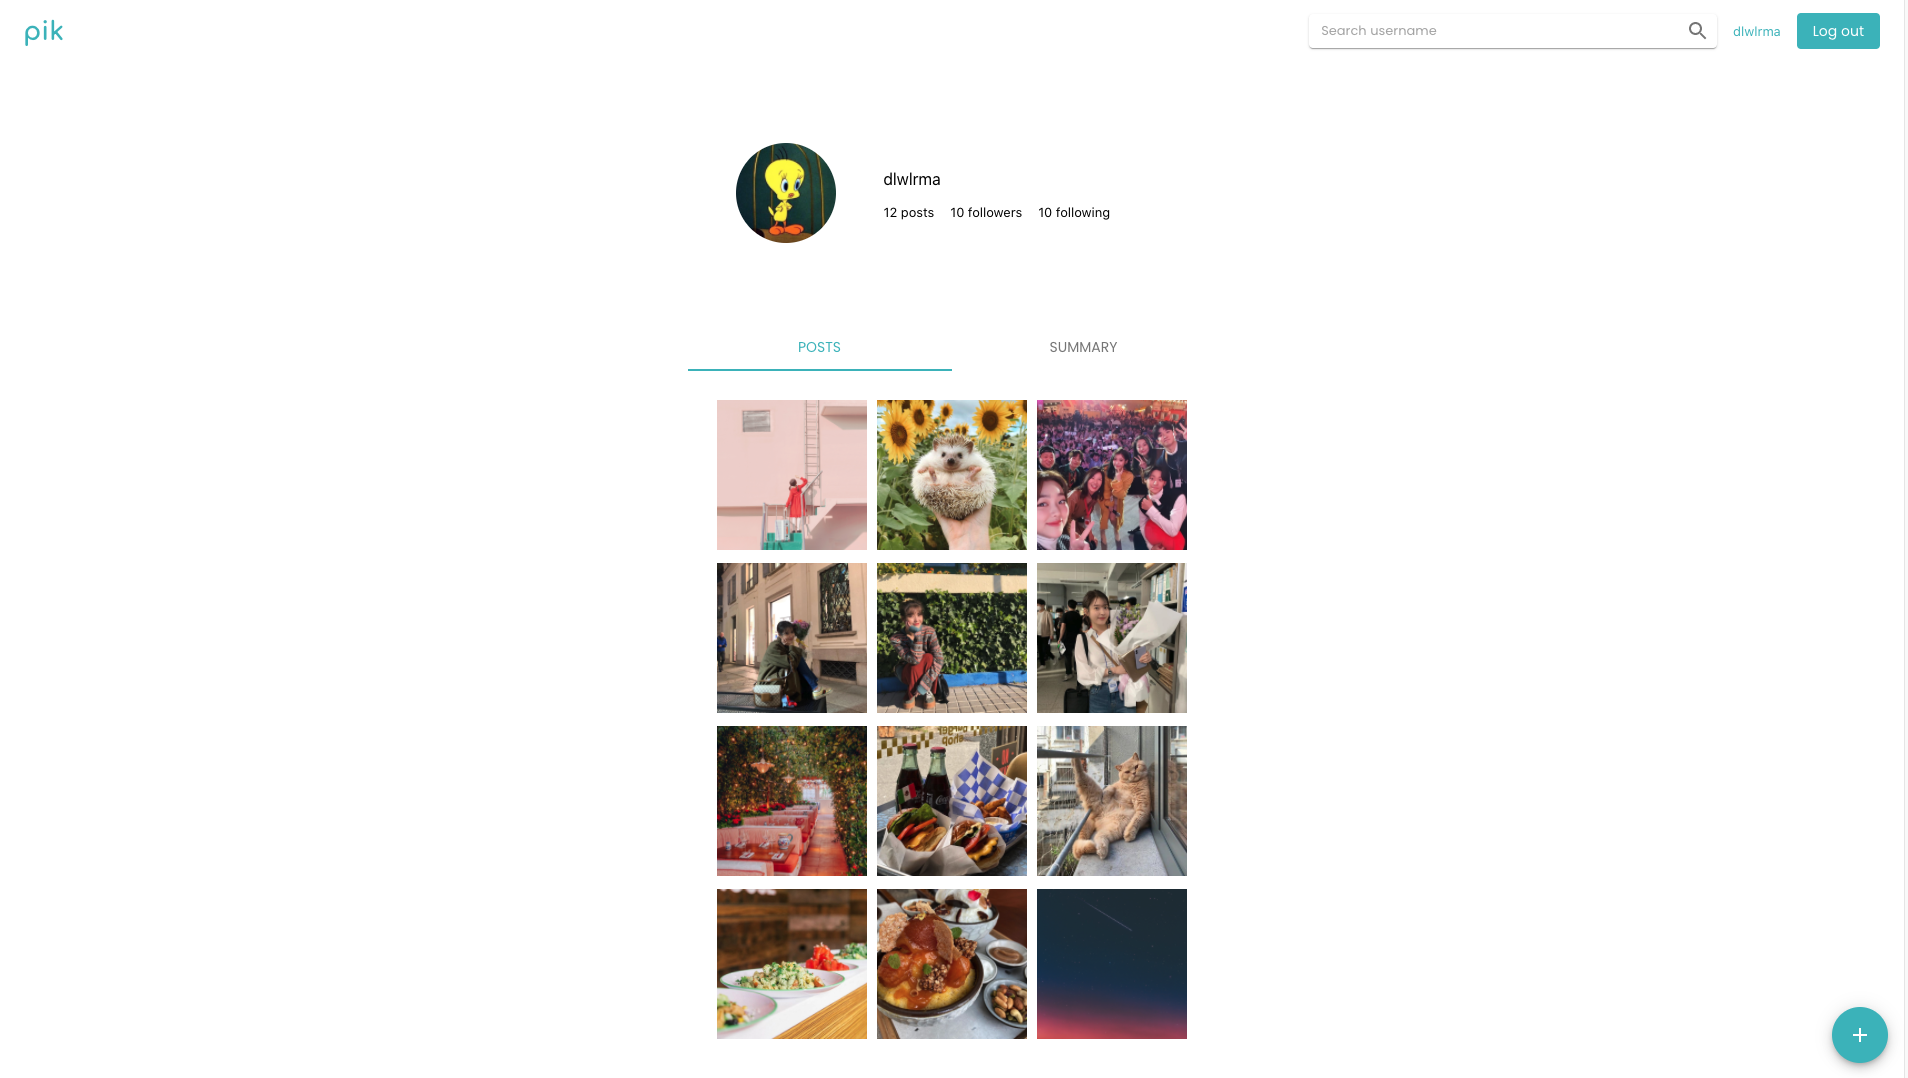
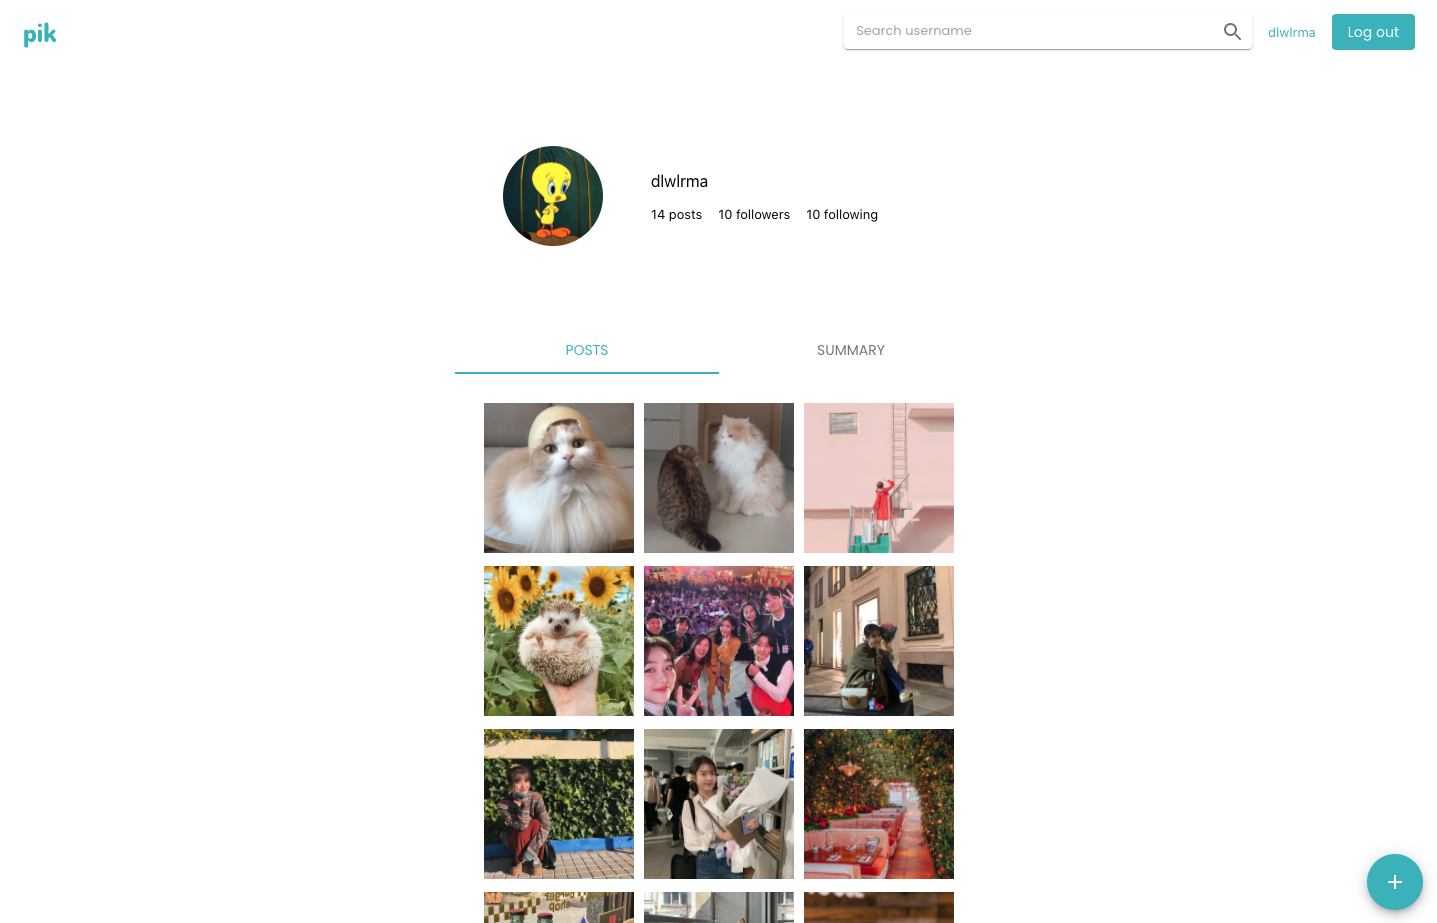
misc updates & create footer

diff --git a/client/src/pages/Profile.js b/client/src/pages/Profile.js
@@ -26,7 +26,8 @@ const Profile = ({
             try {
                 await getProfile(username)
                 const result = await Promise.all(profile.images.map(({ id }) => axios.get(`/image/${id}`)))
-                setPosts(result.map(({ data }) => data.image))
+                if (user?.username === username) setPosts(result.map(({ data }) => data.image))
+                else setPosts(result.map(({ data }) => data.image).filter(image => !image.private))
             } catch (err) {
                 // do nothing
             }
@@ -61,7 +62,6 @@ const Profile = ({
     const ProfilePage = () => {
         const {
             imageUrl, givenName, username = givenName?.toLowerCase(),
-            followers = 10, following = 10,
         } = profile
         return (
             <>
@@ -76,9 +76,7 @@ const Profile = ({
                     <div className={classes.details}>
                         <p>{username}</p>
                         <p style={{ fontSize: 'small' }}>
-                            <span>{`${posts.length} posts`}</span>
-                            <span>{`${followers} followers`}</span>
-                            <span>{`${following} following`}</span>
+                            {`${posts.length} posts`}
                         </p>
                     </div>
                 </div>

diff --git a/client/src/components/Layout.js b/client/src/components/Layout.js
@@ -6,6 +6,7 @@ import CloseIcon from '@material-ui/icons/Close'
 import Alert from '@material-ui/lab/Alert'
 import { connect } from 'react-redux'
 import Navbar from './Navbar'
+import Footer from './Footer'
 import ImageUploader from './ImageUploader'
 import { getUser } from '../actions'
 
@@ -73,6 +74,7 @@ const Layout = ({ children, getUser, user }) => {
                 </main>
                 <ImageUploader open={open} handleClose={handleClose} />
             </div>
+            <Footer />
         </>
     )
 }

diff --git a/client/src/App.css b/client/src/App.css
@@ -1,4 +1,4 @@
-@import url('https://fonts.googleapis.com/css2?family=Poppins:wght@100;300;400;700&family=Comfortaa:wght@700&display=swap');
+@import url('https://fonts.googleapis.com/css2?family=Poppins:wght@100;300;400;700&family=Comfortaa:wght@700&family=Dosis:wght@700;800&display=swap');
 
 .App {
   text-align: center;

diff --git a/client/src/components/Footer.js b/client/src/components/Footer.js
@@ -1,0 +1,10 @@
+import React from 'react'
+import classes from '../styles/footer.module.css'
+
+export default () => {
+    return (
+        <div className={classes.root}>
+            Made from scratch by Hyunuk and Alice © 2020
+        </div>
+    )
+}

diff --git a/client/src/styles/navbar.module.css b/client/src/styles/navbar.module.css
@@ -24,8 +24,8 @@
 }
 
 .logo {
-    font-family: 'Comfortaa', cursive;
-    font-weight: 700;
+    font-family: 'Dosis', sans-serif;
+    font-weight: 800;
     text-align: center;
     color: #3fbac2;
 }

diff --git a/api/models/image.js b/api/models/image.js
@@ -12,6 +12,7 @@ const imageSchema = new mongoose.Schema(
             },
             username: String,
         },
+        private: Boolean,
         categories: {},
     },
     { timestamps: true }

diff --git a/client/src/styles/auth.module.css b/client/src/styles/auth.module.css
@@ -51,8 +51,8 @@
 
 .logo {
     color: #fff;
-    font-family: 'Comfortaa', cursive;
-    font-weight: 700;
+    font-family: 'Dosis', sans-serif;
+    font-weight: 800;
     margin: auto;
 }
 

diff --git a/client/src/styles/footer.module.css b/client/src/styles/footer.module.css
@@ -1,0 +1,8 @@
+.root {
+    align-items: center;
+    color: #383838;
+    display: flex;
+    font-size: small;
+    height: 100px;
+    justify-content: center;
+}

diff --git a/README.md b/README.md
@@ -9,7 +9,7 @@
 <br />
 <p align="center">
   <a href="https://github.com/yehee/pik">
-    <img src="images/logo.png" alt="Logo" width="80" height="80" style="object-fit: cover">
+    <img src="images/logo.png" alt="Logo" height="80">
   </a>
   <p align="center">
     A social media platform to share photos of your moments
